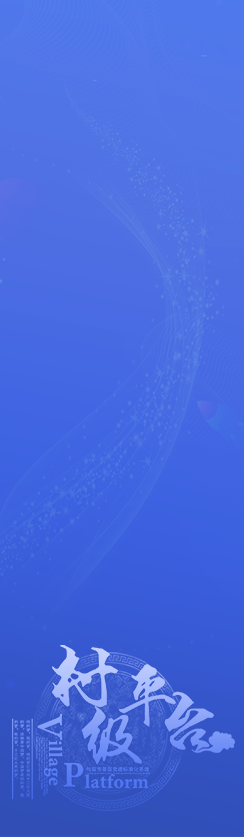
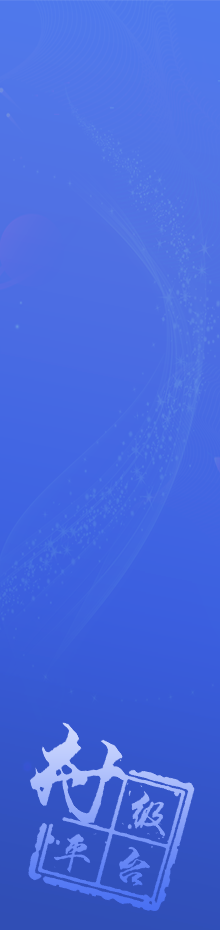
标题菜单修改

Changed region(s): [[0.0273, 0.7455, 0.9545, 0.994]]

diff --git a/src/views/menu/VillageSecretary.vue b/src/views/menu/VillageSecretary.vue
@@ -1,6 +1,8 @@
 <template>
     <section>
-        <CommonCRUD :columns="columns" api-root="identity/villageCadres" :formColumns="formColumns" :queryFormColumns="queryForm">
+        <CommonCRUD :columns="columns" api-root="identity/villageCadres" :formColumns="formColumns"
+                    :queryFormColumns="queryForm" :objectSpanMethod="objectSpanMethod"
+                    @getTableData="handleTableData" :sortColumns="sortColumns">
             <template slot="query" slot-scope="slotProps" v-if="userAuthority!=3">
                 <el-form-item label="所属组织">
                     <el-cascader :props="propsOne"  placeholder="请选择组织" size="mini"
@@ -80,15 +82,138 @@
                         }
                     }
                 },
-                userAuthority:1
+                userAuthority:1,
+                spanParentObject: new Map(),
+                spanObject: new Map(),
+                sortColumns: [
+                    {
+                        name: 'districtId',
+                        type: 'asc'
+                    }
+                ],
             }
         },
         methods:{
             selValue(val){
                 if(val.length>0){
-                    this.queryForm[1].value = val[val.length-1];
+                    this.queryForm[2].value = val[val.length-1];
                 }else{
-                    this.queryForm[1].value = this.user.districtId;
+                    this.queryForm[2].value = this.user.districtId;
+                }
+            },
+            handleTableData(data) {
+                let parentDistrictIds = data.map(item => item.parentDistrictId);
+                parentDistrictIds = new Set(parentDistrictIds);
+                let order = 0;
+                this.spanParentObject.clear();
+                parentDistrictIds.forEach((item) => {
+                    if (item === null) {
+                        item = 'null'
+                    }
+                    data.forEach((subItem, subIndex) => {
+                        if (String(subItem.parentDistrictId) == item) {
+                            this.spanParentObject.set(item, {index: order, end: subIndex})
+                        }
+                    })
+                    order ++;
+                })
+
+                let districtIds = data.map(item => item.districtId);
+                districtIds = new Set(districtIds);
+                order = 0;
+                this.spanObject.clear()
+                districtIds.forEach(item => {
+                    if (item === null) {
+                        item = 'null'
+                    }
+                    data.forEach((subItem, subIndex) => {
+                        if (String(subItem.districtId) == item) {
+                            this.spanObject.set(item, {index: order, end: subIndex})
+                        }
+                    })
+                    order ++;
+                })
+            },
+            objectSpanMethod({row, column, rowIndex, columnIndex}) {
+                if (columnIndex === 1) {
+                    if (this.spanParentObject.size === 0) {
+                        return ;
+                    }
+                    let key;
+                    if (row.parentDistrictId === null) {
+                        key = 'null';
+                    } else {
+                        key = row.parentDistrictId;
+                    }
+                    let index = this.spanParentObject.get(key).index;
+                    let end = this.spanParentObject.get(key).end;
+                    let start = 0;
+                    if (index !== 0) {
+                        this.spanParentObject.forEach((v,key) => {
+                            if (v.index === (index - 1)) {
+                                start = v.end + 1;
+                            }
+                        })
+                    }
+                    if (rowIndex === start) {
+                        return {
+                            rowspan: end - start + 1,
+                            colspan: 1
+                        }
+                    }
+                    else if (start < rowIndex <= end) {
+                        return {
+                            rowspan: 0,
+                            colspan: 0
+                        }
+                    } else {
+                        return {
+                            rowspan: 1,
+                            colspan: 1
+                        }
+                    }
+                } else if (columnIndex === 2) {
+                    if (this.spanObject.size === 0) {
+                        return ;
+                    }
+                    let key;
+                    if (row.districtId === null) {
+                        key = 'null';
+                    } else {
+                        key = row.districtId;
+                    }
+                    let index = this.spanObject.get(key).index;
+                    let end = this.spanObject.get(key).end;
+                    let start = 0;
+                    if (index !== 0) {
+                        this.spanObject.forEach((v,key) => {
+                            if (v.index === (index - 1)) {
+                                start = v.end + 1;
+                            }
+                        })
+                    }
+                    if (rowIndex === start) {
+                        return {
+                            rowspan: end - start + 1,
+                            colspan: 1
+                        }
+                    }
+                    else if (start < rowIndex <= end) {
+                        return {
+                            rowspan: 0,
+                            colspan: 0
+                        }
+                    } else {
+                        return {
+                            rowspan: 1,
+                            colspan: 1
+                        }
+                    }
+                } else {
+                    return {
+                        rowspan: 1,
+                        colspan: 1
+                    }
                 }
             },
             handelOrg(){

diff --git a/src/layout/components/TopBar.vue b/src/layout/components/TopBar.vue
@@ -529,14 +529,14 @@
     }
 
     .top_bar .header-title {
-        width: calc(850 * 100vw/1920 * 0.82);
-        height: calc(90 * 100vw/1920 * 0.82);
-        min-width: 640px;
-        min-height: 67px;
+        width: calc(774 * 100vw/1920 * 0.82);
+        height: calc(56 * 100vw/1920 * 0.82);
+        min-width: 774px;
+        min-height: 56px;
         background: url("/static/header/title.png") no-repeat;
         background-size: 100% 100%;
         position: relative;
-        left: 6px;
+        left: 20px;
         display: inline-block;
         vertical-align: bottom;
     }
